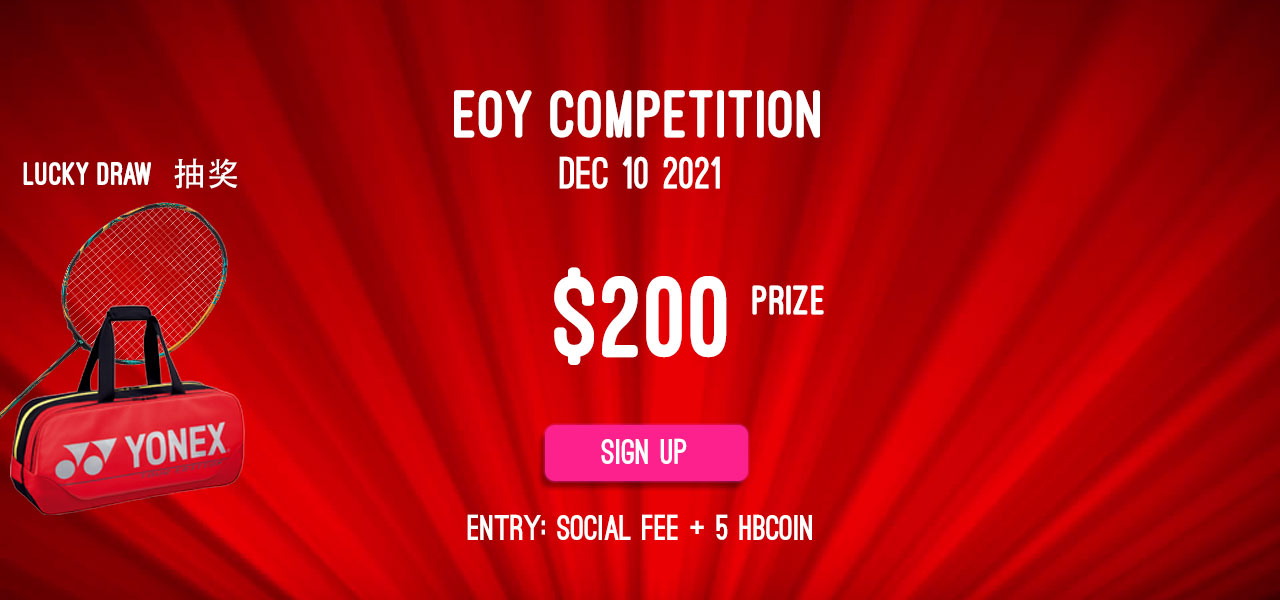
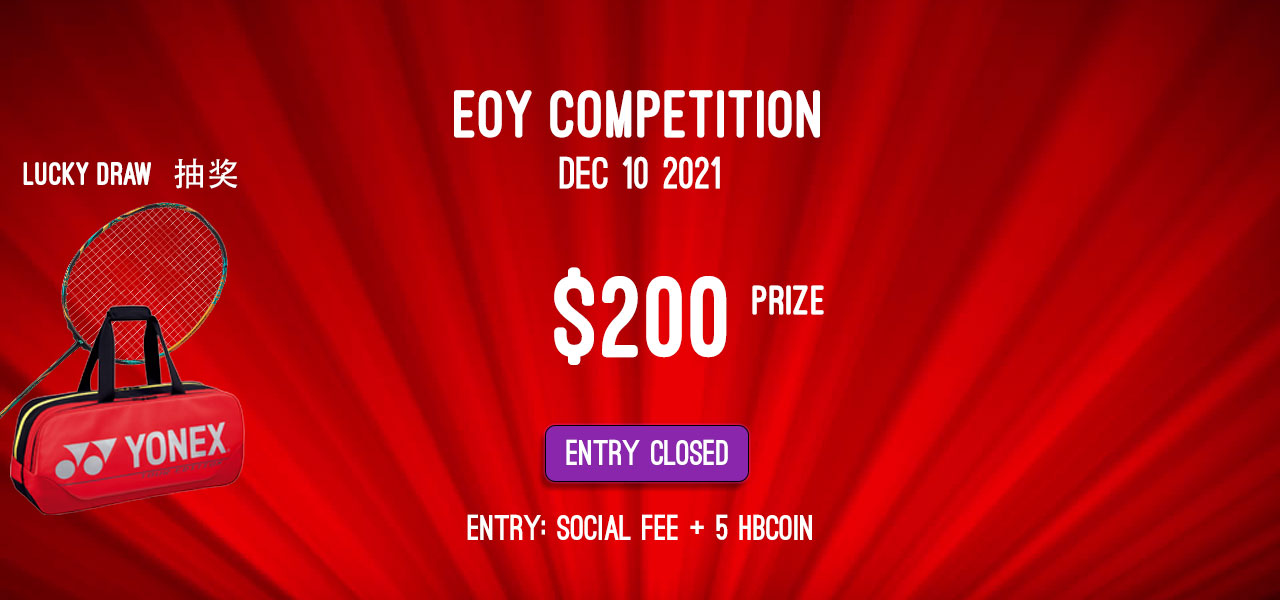
comp entry closed

Changed region(s): [[0.4062, 0.69, 0.5938, 0.81]]

diff --git a/src/app/views/home/home.component.html b/src/app/views/home/home.component.html
@@ -7,15 +7,9 @@
 
     <div class="row">
       <div class="col">
-        <a href="https://forms.gle/TEVrbNoF6TU6Q3XJ9" target="_blank">
-          <img src="./assets/img/banners/Comp2021.jpg" alt="HBC Comp 2021" class="responsive">
-        </a>
-
+        <img src="./assets/img/banners/Comp2021.jpg" alt="HBC Comp 2021" class="responsive">
       </div>
-      
     </div>
-
-
 
 
 
